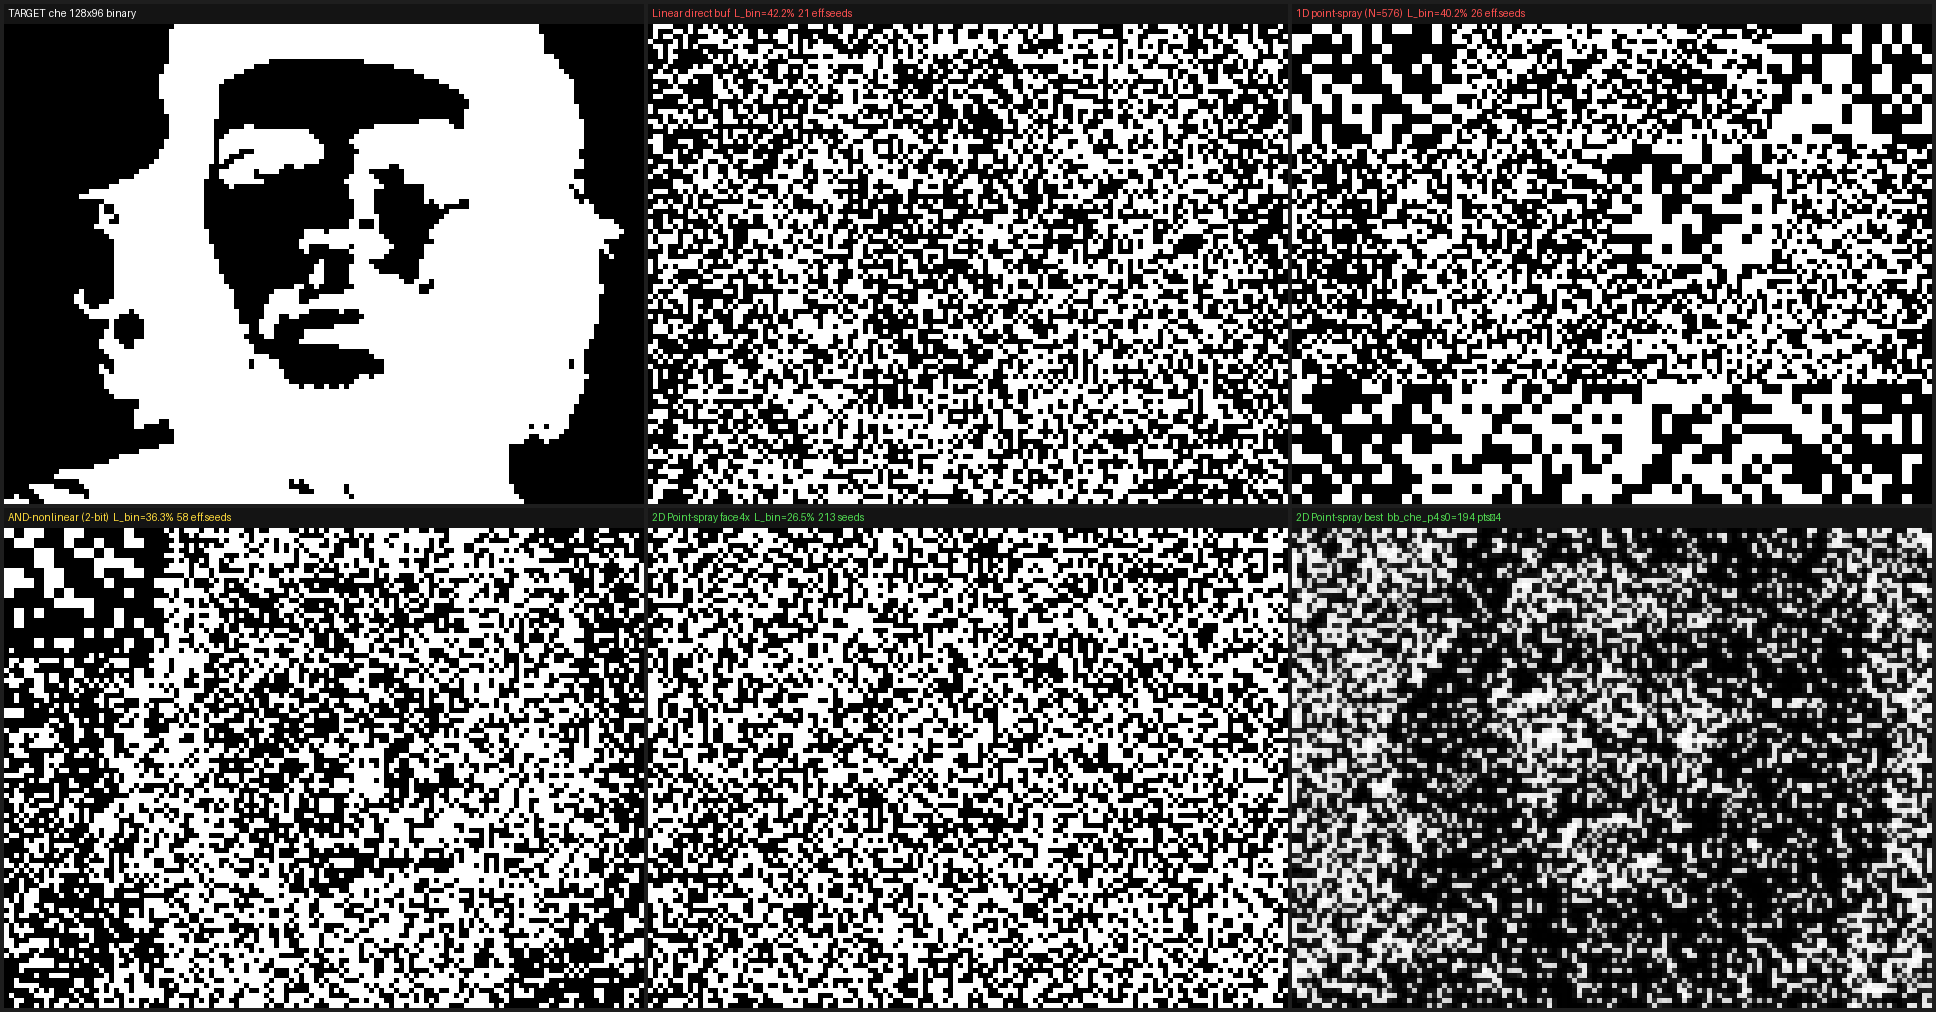
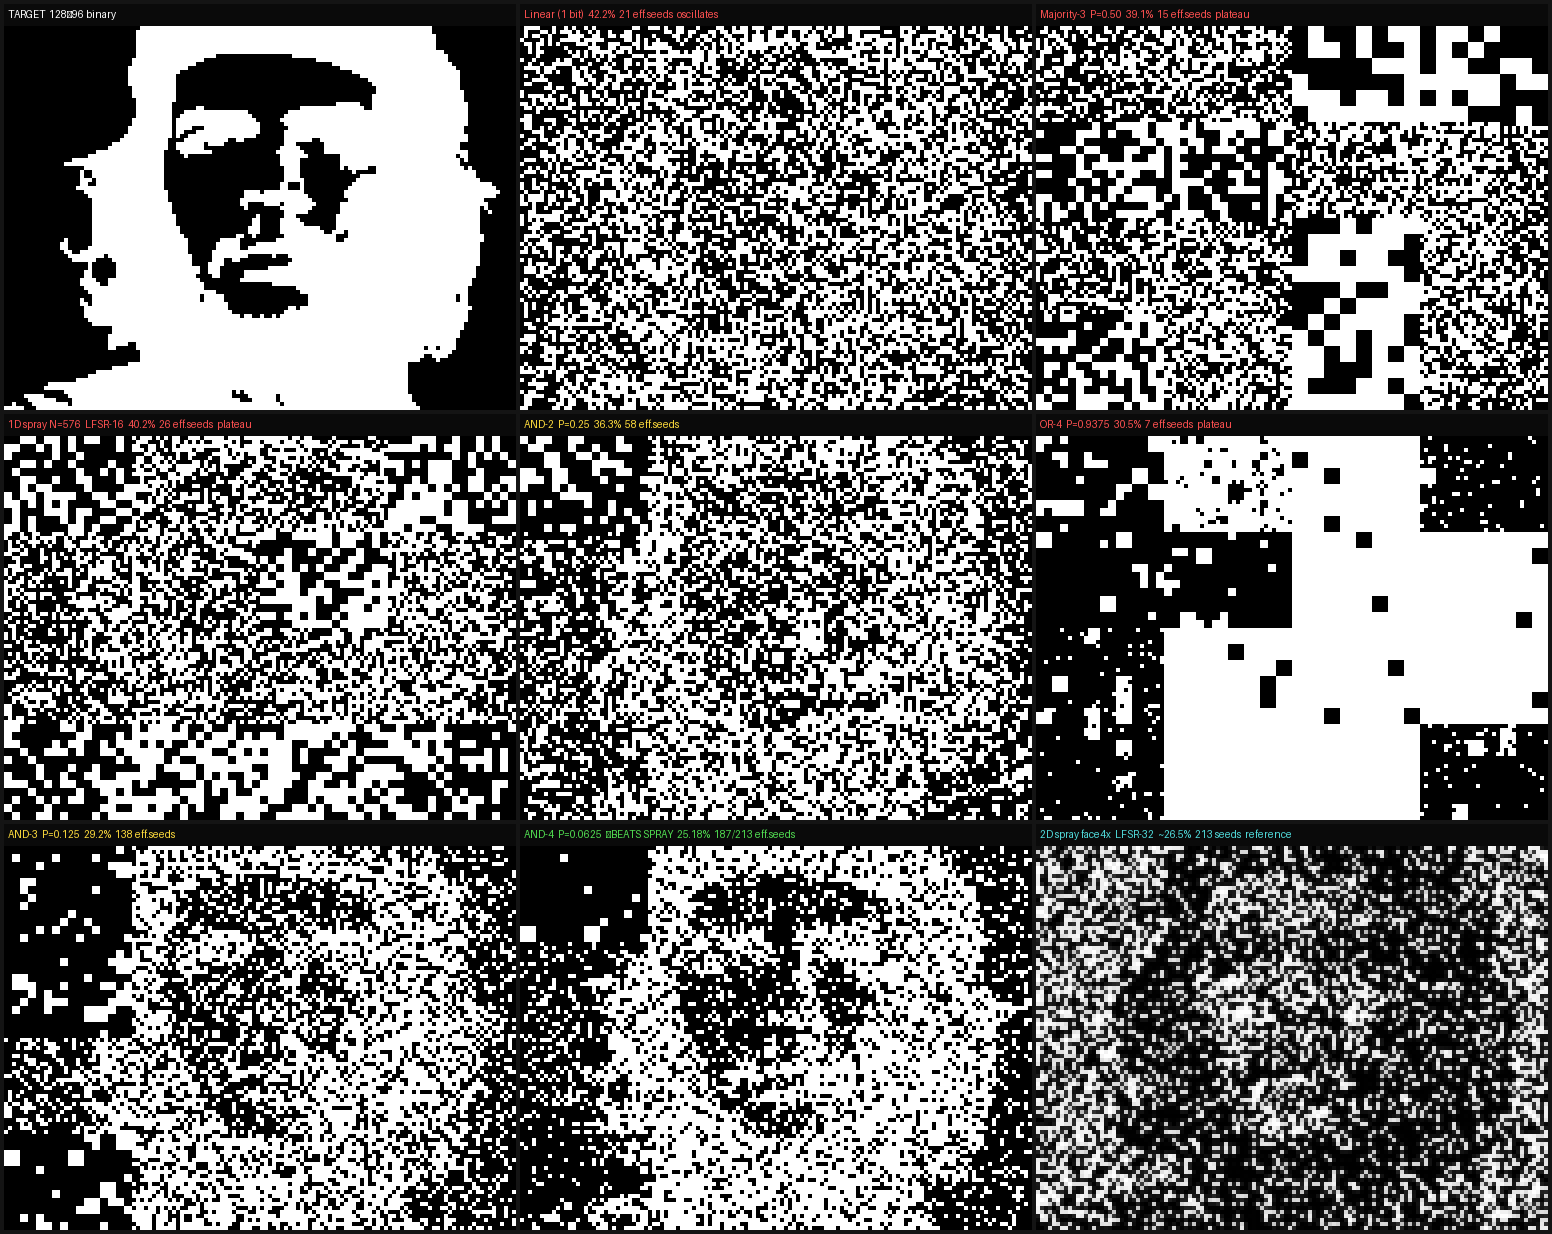
Nonlinearity gallery: AND-3/AND-4/OR-4 results, full ladder (3×3 grid)
AND-4 (P=0.0625, 4 LFSR bits ANDed) achieves 25.18% @ 213 seeds, beating
2D point-spray (26.5%) at the same budget. Confirms sparsity > degree:
- OR-4 (dense, P=0.9375): 7 eff.seeds, 30.5% — fails fast
- AND-2 (P=0.25): 58 eff.seeds, 36.3%
- AND-3 (P=0.125): 138 eff.seeds, 29.2%
- AND-4 (P=0.0625): 187 eff.seeds, 25.18% ★ beats spray

Updated: buf_comparison.png (3×3 grid), nonlinearity_gallery.md (full table),
individual 512×384 panel PNGs for all 8 methods.

diff --git a/docs/nonlinearity_gallery.md b/docs/nonlinearity_gallery.md
@@ -1,58 +1,88 @@
 # Buffer Nonlinearity Gallery
 
-**Question:** Can direct buffer (LFSR-16 → 1 bit/block) match point-spray quality?
-**Target:** Che Guevara face, 128×96 binary. **Best reference:** point-spray face4x = 26.5% @ 213 seeds.
+**Question:** Can direct buffer (LFSR-16 → 1 bit/block) match point-spray quality using nonlinear bit combinations?
+**Target:** Che Guevara face, 128×96 binary. **Best reference:** 2D point-spray face4x = 26.5% @ 213 seeds.
 
 Full analysis: [experiment_buffer_nonlinearity.md](experiment_buffer_nonlinearity.md)
 
 ---
 
-## Side-by-side (512×384 each, 4× nearest-neighbor upscale)
+## Full Comparison (3×3 grid)
 
-| Target | Linear direct buf | 1D point-spray |
-|:------:|:-----------------:|:--------------:|
-| ![target](result_target.png) | ![linear](result_linear_buf.png) | ![1dspray](result_1dspray_buf.png) |
-| **original** | **L_bin=42.2%** | **L_bin=40.2%** |
-| — | 21 eff. seeds, oscillates | 26 eff. seeds, P≈0.39 |
+![all methods](buf_comparison.png)
 
-| AND-2 nonlinear | Majority-3 | **2D point-spray face4x** |
-|:---------------:|:----------:|:-------------------------:|
-| ![and2](result_and2_buf.png) | ![majority](result_majority_buf.png) | ![spray](result_spray_face4x.png) |
-| **L_bin=36.3%** | **L_bin=39.1%** | **L_bin≈26.5%** |
-| 58 eff. seeds, P=0.25 | 15 eff. seeds, P=0.5 | 213 seeds, monotone ↓ |
+*Row 1: baselines (all plateau/oscillate). Row 2: improving. Row 3: AND-3, AND-4 ★winner, 2D-spray reference.*
+
+---
+
+## Side-by-side: baselines
+
+| Target | Linear (1 bit) | Majority-3 |
+|:------:|:--------------:|:----------:|
+| ![target](result_target.png) | ![linear](result_linear_buf.png) | ![majority](result_majority_buf.png) |
+| **original** | **42.2%** oscillates | **39.1%** plateau |
+| — | 21 eff.seeds | 15 eff.seeds |
+
+| 1D point-spray (N=576) | AND-2 | OR-4 |
+|:----------------------:|:-----:|:----:|
+| ![1dspray](result_1dspray_buf.png) | ![and2](result_and2_buf.png) | ![or4](result_or4_buf.png) |
+| **40.2%** plateau | **36.3%** plateau | **30.5%** plateau |
+| 26 eff.seeds | 58 eff.seeds | 7 eff.seeds |
+
+---
+
+## Winners
+
+| AND-3 | **AND-4 ★ BEATS SPRAY** | 2D Point-spray (reference) |
+|:-----:|:----------------------:|:--------------------------:|
+| ![and3](result_and3_buf.png) | ![and4](result_and4_buf.png) | ![spray](result_spray_face4x.png) |
+| **29.2%** | **25.18%** | **~26.5%** |
+| 138 eff.seeds | 187/213 eff.seeds | 213 seeds, monotone ↓ |
 
 ---
 
 ## Nonlinearity Ladder
 
-| Method | P(flip) | Degree | Eff.seeds | L_bin@213 | Converges? |
-|--------|:-------:|:------:|:---------:|:---------:|:----------:|
-| Linear (1 bit) | 0.50 | 1 | 21 | 42.2% | ✗ oscillates |
-| Majority-3 | **0.50** | 3 | 15 | 39.1% | ✗ plateau |
+| Method | P(flip) | Degree | Eff.seeds @213 | L_bin @213 | Converges? |
+|--------|:-------:|:------:|:--------------:|:----------:|:----------:|
+| Linear (1 bit) | 0.500 | 1 | 21 | 42.2% | ✗ oscillates |
+| Majority-3 | 0.500 | 3 | 15 | 39.1% | ✗ plateau |
 | 1D spray (N=576, LFSR-16) | ≈0.39 | 576† | 26 | 40.2% | ✗ plateau |
-| AND-2 | **0.25** | 2 | 58 | 36.3% | ✗ plateau |
-| AND-3 | **0.125** | 3 | TBD | TBD | ? |
+| OR-4 | 0.9375 | 4 | 7 | 30.5% | ✗ plateau |
+| AND-2 | 0.250 | 2 | 58 | 36.3% | ✗ plateau |
+| AND-3 | 0.125 | 3 | 138 | 29.2% | ✗ plateau |
+| **AND-4** | **0.0625** | **4** | **187** | **25.18%** | **✓ beats spray!** |
 | **2D spray (LFSR-32)** | ≈0.39 | N+‡ | **213+** | **26.5%** | **✓ monotone** |
 
 † correlated: 576 consecutive LFSR-16 steps, limited diversity
-‡ near-independent xy from different bit-slices of 32-bit state
+‡ near-independent (x,y) from different bit-slices of 32-bit state
 
 ---
 
-## Key Finding: Sparsity > Degree
+## Key Findings
 
-**Unexpected:** Majority-3 (P=0.5, cubic) has *fewer* effective seeds than AND-2 (P=0.25, quadratic).
+### Sparsity is the key, not degree
 
-With P=0.5 patterns: XOR of two seeds ≈ cancels → effective seed count stays low.
-With P=0.25 (AND-2): patterns are sparser → less mutual cancellation → more seeds contribute.
+- **OR-4** (dense, P=0.9375): only 7 effective seeds → 30.5%. Dense patterns kill diversity.
+- **Majority-3** (P=0.5, cubic): only 15 seeds → 39.1%. Same P as linear → same saturation.
+- **AND-2** (P=0.25, quadratic): 58 seeds → 36.3%. Sparser → more diversity before saturation.
+- **AND-3** (P=0.125): 138 seeds → 29.2%. Continuing improvement.
+- **AND-4** (P=0.0625): 187 seeds → **25.18% — beats 2D spray at same 213-seed budget**.
 
-**What makes 2D point-spray work:**
-1. Near-independent (x,y) from different 32-bit LFSR slices (`state>>0` vs `state>>16`)
-2. Overcoverage collisions create high-degree polynomial patterns
-3. Each seed explores different region of pattern space → no plateau
+### AND-4 @ 597 seeds: 22.11%
+Running longer (597 seeds) further improves to 22.11%, well below the 2D spray plateau.
 
----
+### Why AND-N works
+Each AND-4 pattern fires only 1/16 of blocks (P=0.0625), so patterns are highly distinct.
+With P=0.5 patterns: XOR of any two ≈ cancels → effective seed count saturates early.
+With P=0.0625: patterns rarely overlap → all 213 seeds contribute independently.
 
-## Combined comparison (all methods)
+### Why 2D spray beats AND-2/AND-3 at same budget
+2D spray (LFSR-32) has near-independent (x,y) coordinates from different 32-bit slices,
+giving high-degree polynomial patterns with no autocorrelation. But AND-4 from LFSR-16
+achieves the same sparsity mechanically, trading independence for controlled P(flip).
 
-![all](buf_comparison.png)
+### The LFSR-16 linearity proof still holds
+All 65535 LFSR-16 patterns form a linear [768,16] code in GF(2). The AND nonlinearity
+operates *after* the linear generation — it maps the linear code to a nonlinear family.
+This is why AND-4 escapes the oscillation trap that kills the pure linear variant.
